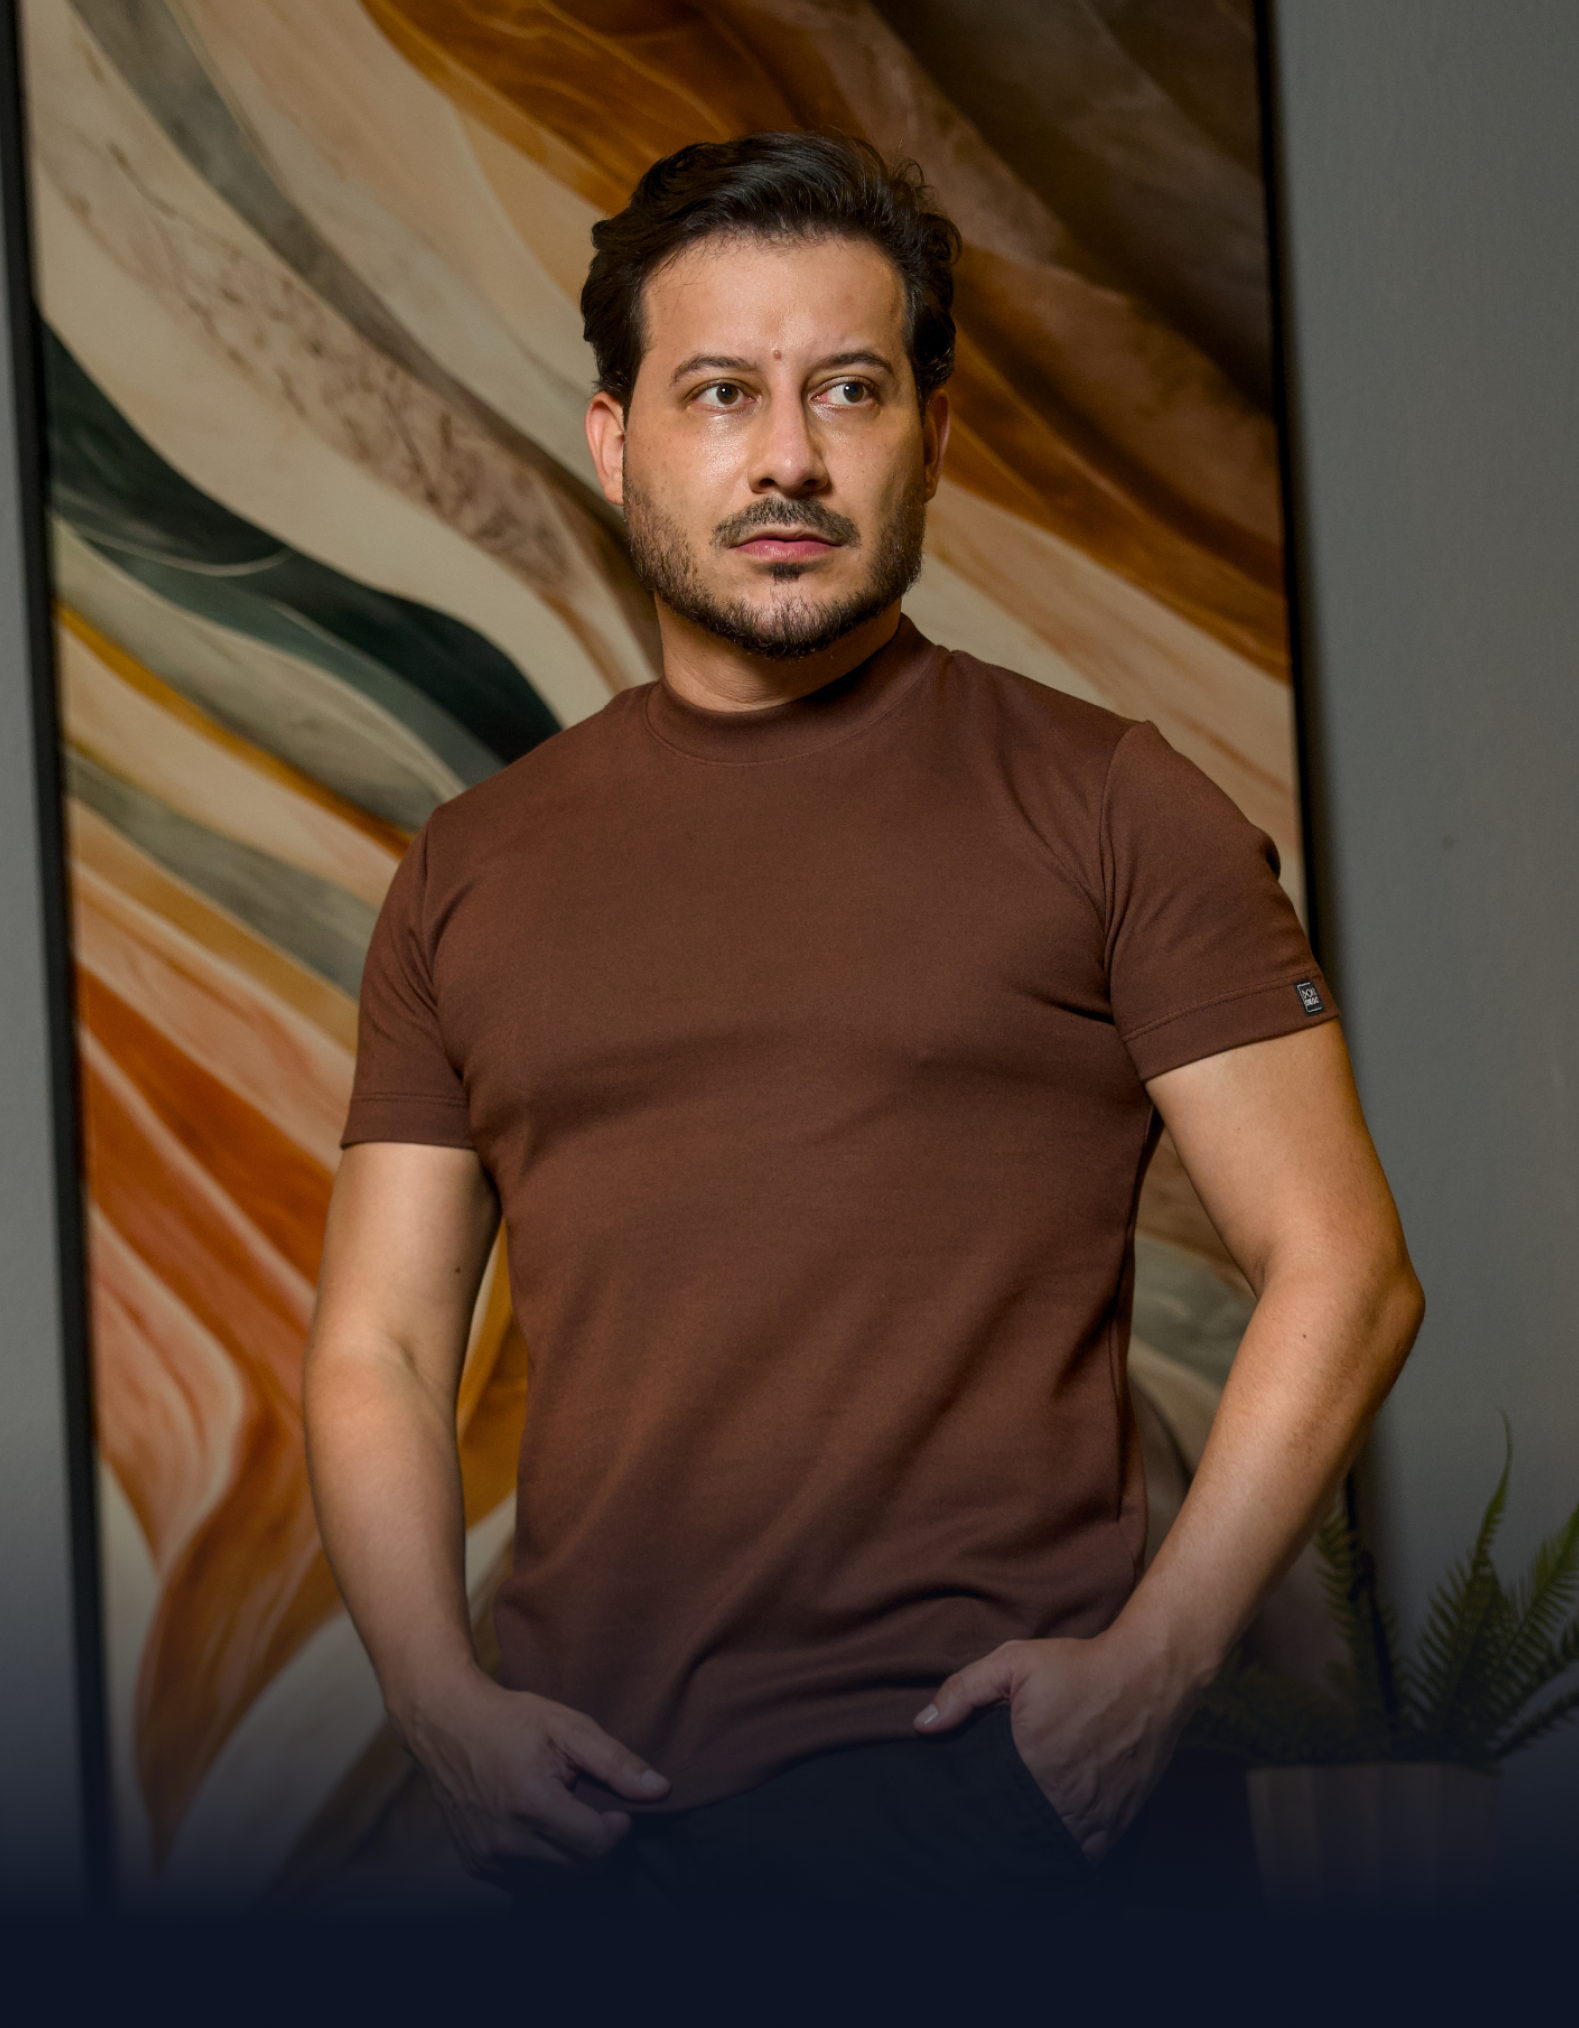
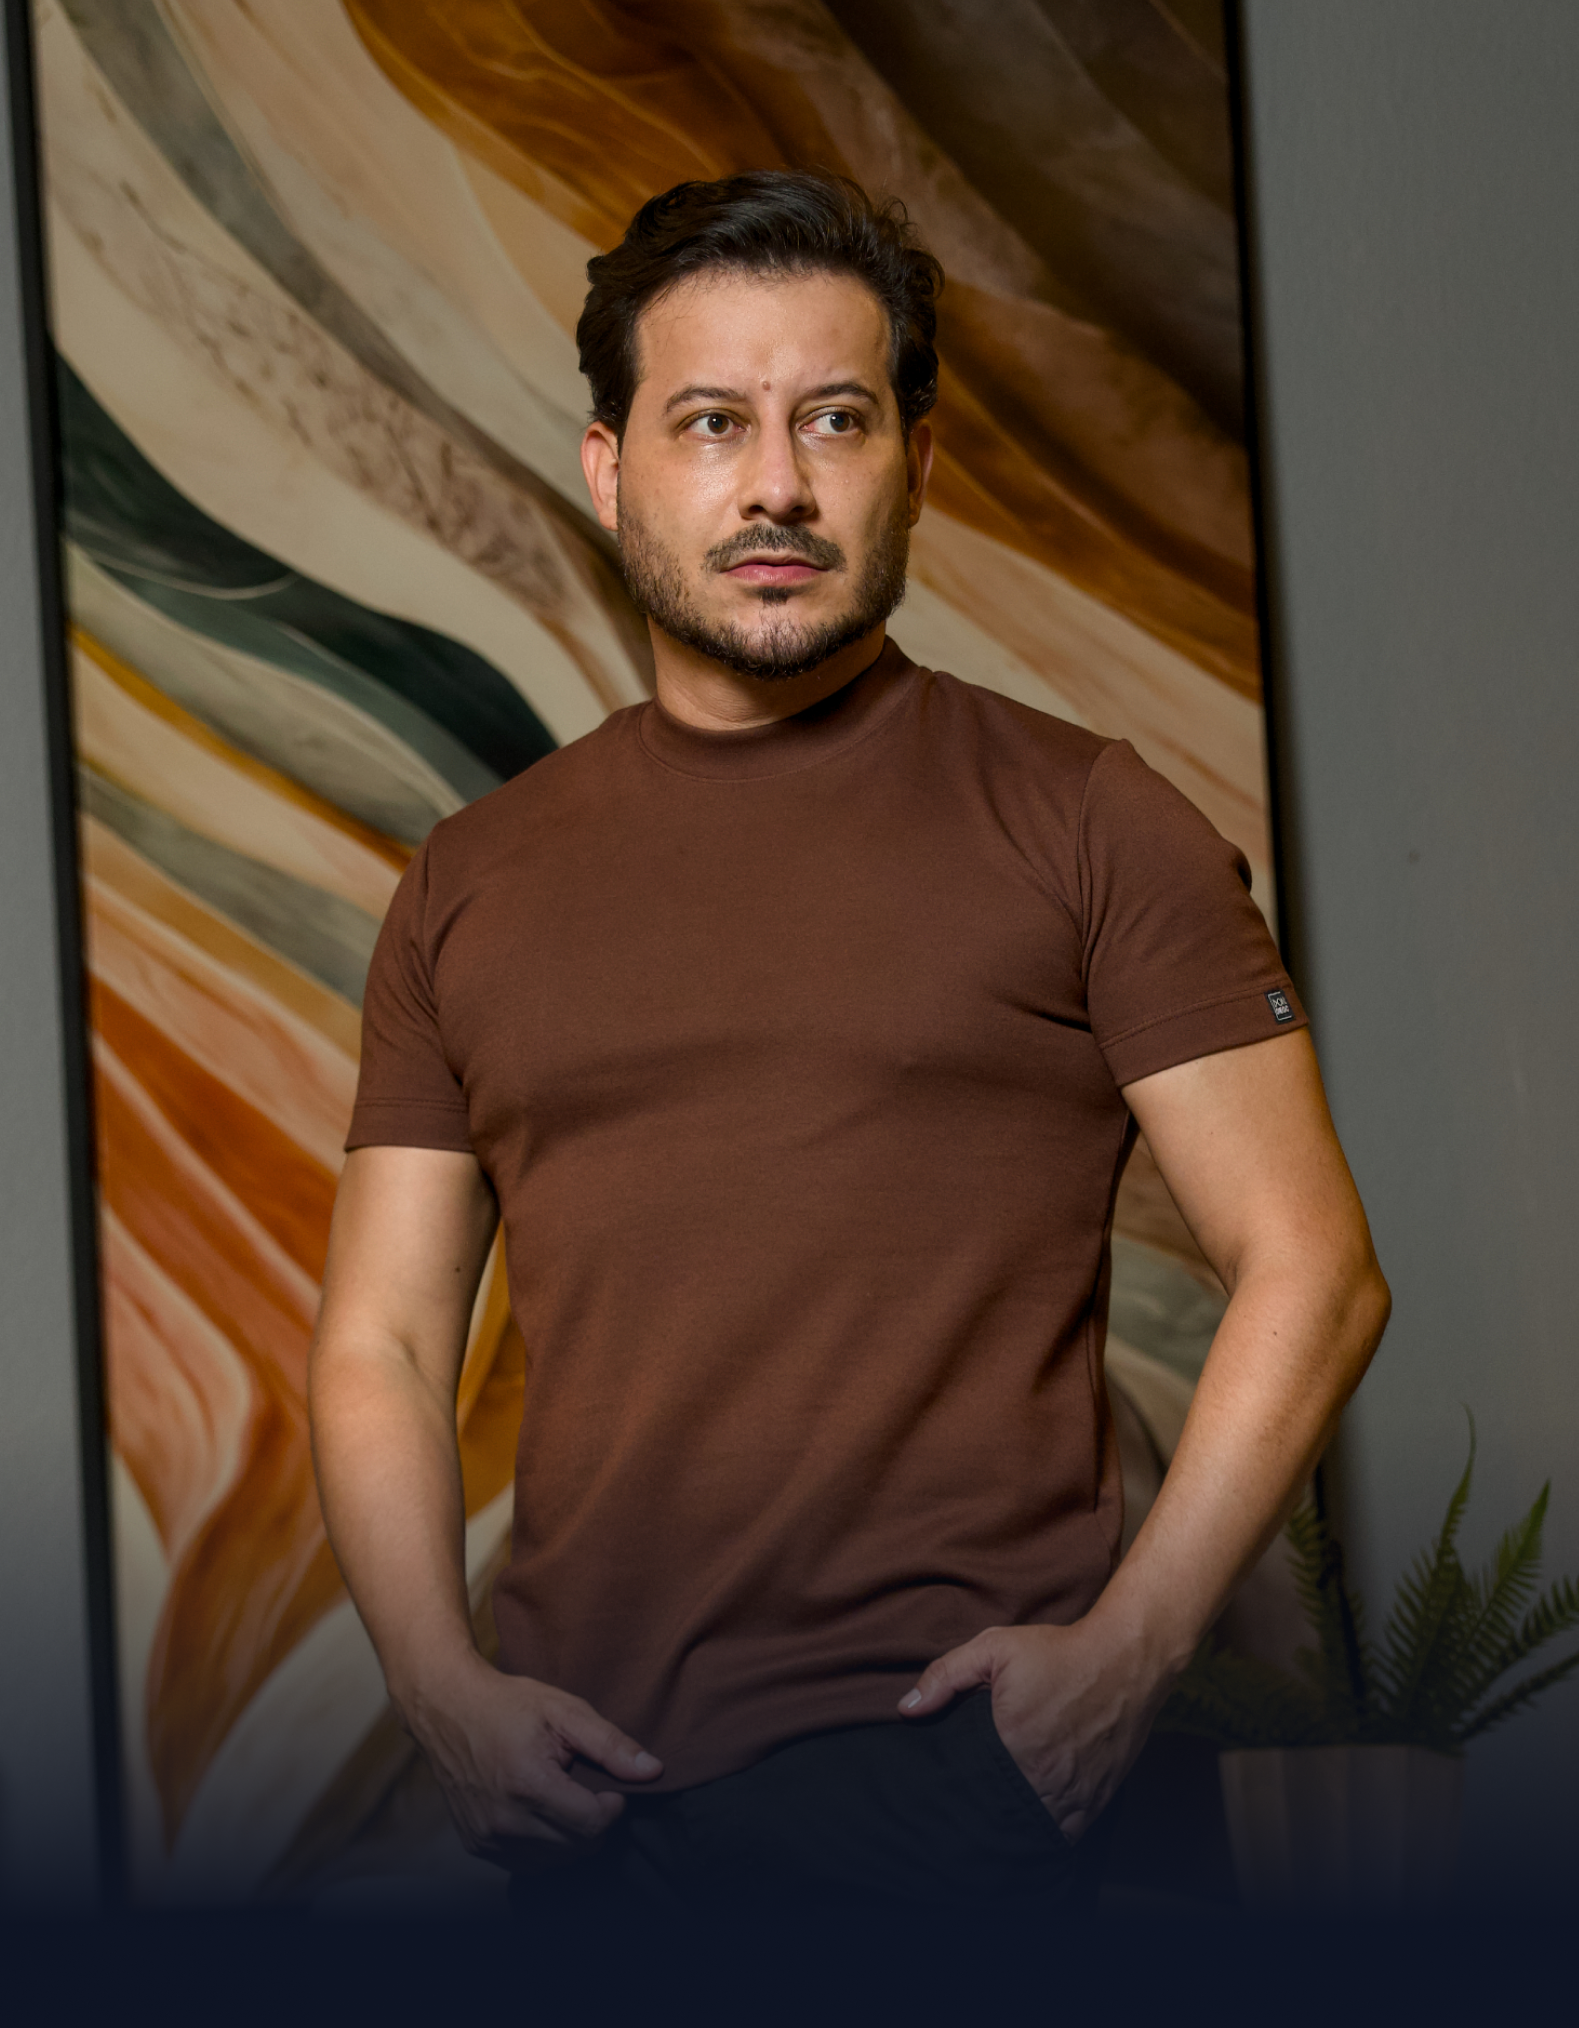
atualizando hero

diff --git a/style.css b/style.css
@@ -78,7 +78,7 @@ body {
 }
 
 .topbar__share img {
-    width: 6px;
+    width: 80px;
     height: auto;
     display: block;
     filter: drop-shadow(0 2px 8px rgba(0, 0, 0, .4));
@@ -94,7 +94,7 @@ body {
     position: absolute;
     left: 0;
     right: 0;
-    bottom: 10%;
+    bottom: 28%;
     text-align: center;
     line-height: 1.25;
     font-size: clamp(15px, 5.5vw, 20px);
@@ -126,7 +126,7 @@ body {
 /* ---------- Painel de links ---------- */
 .panel {
     position: relative;
-    margin: -60px auto 0;
+    margin: -120px auto 0;
     width: 100%;
     background: linear-gradient(180deg, var(--panel) 0%, #262a35 100%);
     border-radius: 40px;
@@ -285,7 +285,7 @@ body {
     .topbar__perfil img { width: 120px; }
     .topbar__share img { width: 36px; }
     .cards { padding: 24px 16px 20px; gap: 16px; }
-    .panel { border-radius: 32px; margin-top: -50px; }
+    .panel { border-radius: 32px; margin-top: -100px; }
 }
 
 /* Tablet e desktop (≥769px) */